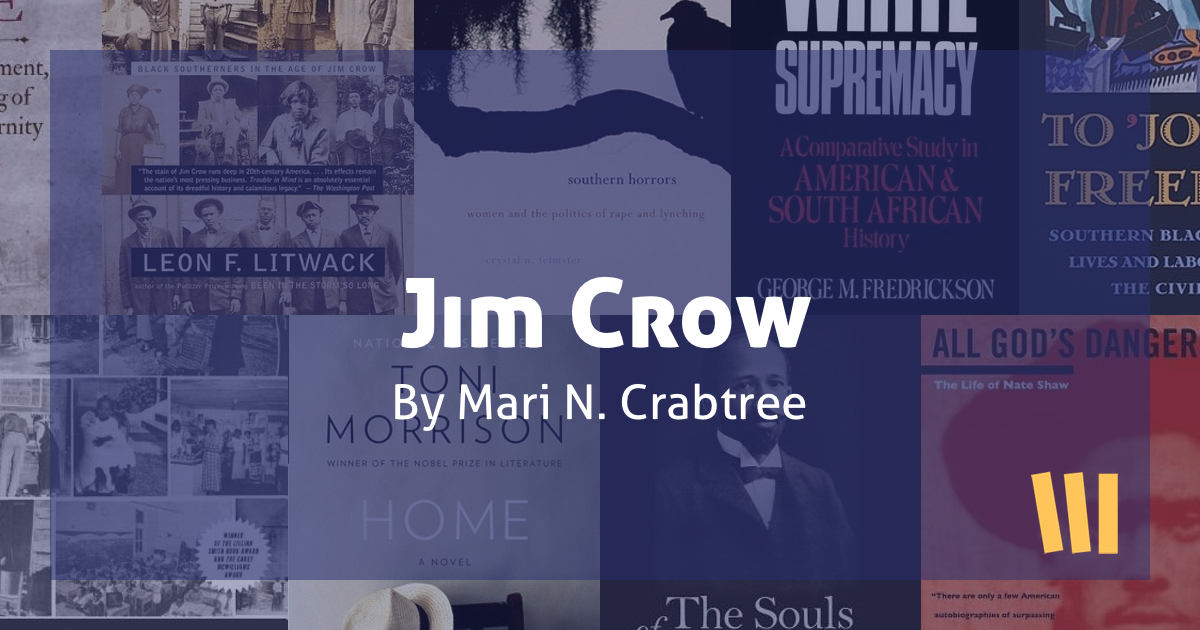
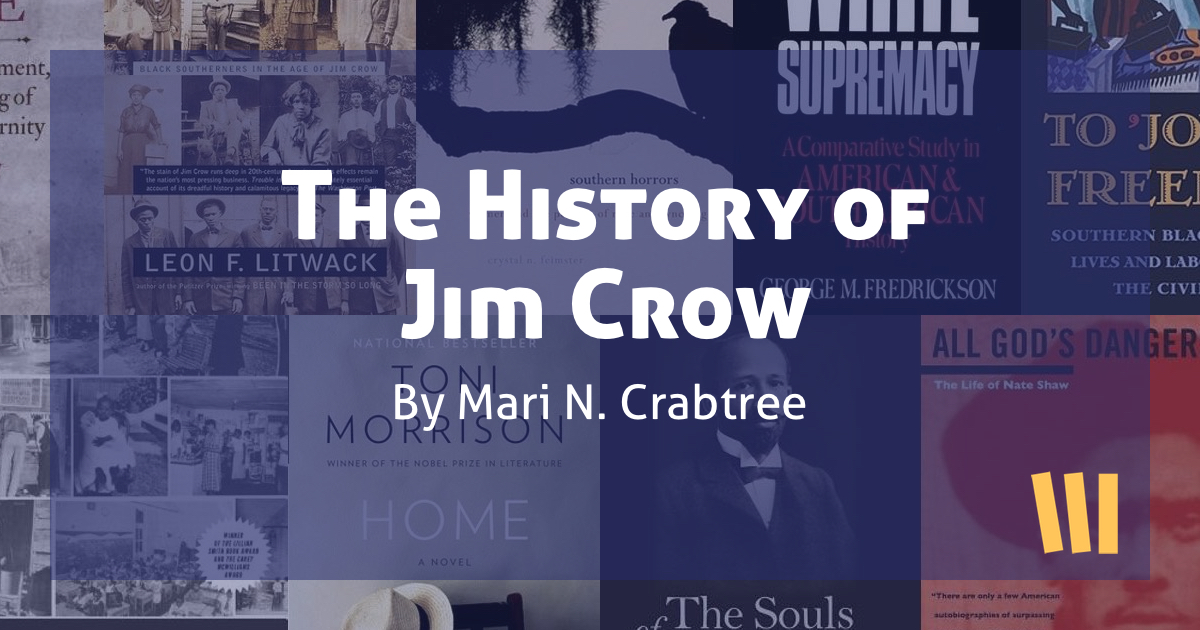
Deploy Crabtree title change

diff --git a/lists/jim-crow.html b/lists/jim-crow.html
@@ -6,7 +6,7 @@
   <meta http-equiv="X-UA-Compatible" content="IE=edge">
   <meta name="viewport" content="width=device-width, initial-scale=1">
 
-  <title>Jim Crow / Backlist</title>
+  <title>The History of Jim Crow / Backlist</title>
   <meta name="description" content="To write about Jim Crow is to write about broken promises, many of which remain broken. Lincoln called for “a new birth of freedom” in the Gettysburg Address...">
 
   <link rel="icon" type="image/x-icon" href="/favicon.png" />
@@ -28,13 +28,13 @@
     <meta name="twitter:card" content="summary_large_image">
     <meta name="twitter:site" content="@bcklst">
     <meta name="twitter:creator" content="@jonesbp">
-    <meta name="twitter:title" content="Jim Crow">
+    <meta name="twitter:title" content="The History of Jim Crow">
     <meta name="twitter:description" content="In some way or another, the authors included in this list grapple with the question: How free is free? They ask what it means for a nation that believes itself to be the model democracy to use lynching, segregation, convict leasing, disfranchisement, debt peonage, race riots, and racist caricatures to control black men and women after abolishing slavery. They also ask how Jim Crow disrupted the interior lives of African Americans who survived it.">
     <meta name="twitter:image" content="http://backlist.cc/images/social-media-cards/crabtree-jim-crow.jpg">
 
     <meta property="og:url" content="http://backlist.cc/lists/jim-crow" />
     <meta property="og:type" content="article" />
-    <meta property="og:title" content="Jim Crow" />
+    <meta property="og:title" content="The History of Jim Crow" />
     <meta property="og:description" content="In some way or another, the authors included in this list grapple with the question: How free is free? They ask what it means for a nation that believes itself to be the model democracy to use lynching, segregation, convict leasing, disfranchisement, debt peonage, race riots, and racist caricatures to control black men and women after abolishing slavery. They also ask how Jim Crow disrupted the interior lives of African Americans who survived it." />
     <meta property="og:image" content="http://backlist.cc/images/social-media-cards/crabtree-jim-crow.jpg" />
     <meta property="og:image:width" content="1200" />
@@ -82,7 +82,7 @@
   <header class="post-header"><div class="header-background" style="background-image: url(/images/list-headers/crabtree-jim-crow.jpg)"><div class="header-inset"><div class="wrapper">
     <div class="title-card">
       <h1 class="post-title">
-        Jim Crow
+        The History of Jim Crow
         <span class="byline">By Mari N. Crabtree</span>
       </h1>
       <div class="post-meta">

diff --git a/books/H/1/index.html b/books/H/1/index.html
@@ -78,7 +78,7 @@
             <h3>Haley, Sarah. <em>No Mercy Here: Gender, Punishment, and the Making of Jim Crow Modernity</em>. Justice, Power, and Politics. Chapel Hill, NC: The University of North Carolina Press, 2016.</h3>
             <ul class="citations">
               <li class="label">Cited in:</li>
-                <li><a href="/lists/jim-crow">Jim Crow</a></li>
+                <li><a href="/lists/jim-crow">The History of Jim Crow</a></li>
             </ul>
           </li>
           <li>
@@ -141,7 +141,7 @@
             <h3>Hunter, Tera W. <em>To ’Joy My Freedom: Southern Black Women’s Lives and Labors After the Civil War</em>. Cambridge, MA: Harvard University Press, 1997.</h3>
             <ul class="citations">
               <li class="label">Cited in:</li>
-                <li><a href="/lists/jim-crow">Jim Crow</a></li>
+                <li><a href="/lists/jim-crow">The History of Jim Crow</a></li>
             </ul>
           </li>
   </ul>

diff --git a/books/H/index.html b/books/H/index.html
@@ -78,7 +78,7 @@
             <h3>Haley, Sarah. <em>No Mercy Here: Gender, Punishment, and the Making of Jim Crow Modernity</em>. Justice, Power, and Politics. Chapel Hill, NC: The University of North Carolina Press, 2016.</h3>
             <ul class="citations">
               <li class="label">Cited in:</li>
-                <li><a href="/lists/jim-crow">Jim Crow</a></li>
+                <li><a href="/lists/jim-crow">The History of Jim Crow</a></li>
             </ul>
           </li>
           <li>
@@ -141,7 +141,7 @@
             <h3>Hunter, Tera W. <em>To ’Joy My Freedom: Southern Black Women’s Lives and Labors After the Civil War</em>. Cambridge, MA: Harvard University Press, 1997.</h3>
             <ul class="citations">
               <li class="label">Cited in:</li>
-                <li><a href="/lists/jim-crow">Jim Crow</a></li>
+                <li><a href="/lists/jim-crow">The History of Jim Crow</a></li>
             </ul>
           </li>
   </ul>

diff --git a/books/F/1/index.html b/books/F/1/index.html
@@ -92,7 +92,7 @@
             <h3>Feimster, Crystal N. <em>Southern Horrors: Women and the Politics of Rape and Lynching</em>. Cambridge, MA: Harvard University Press, 2009.</h3>
             <ul class="citations">
               <li class="label">Cited in:</li>
-                <li><a href="/lists/jim-crow">Jim Crow</a></li>
+                <li><a href="/lists/jim-crow">The History of Jim Crow</a></li>
             </ul>
           </li>
           <li>
@@ -113,7 +113,7 @@
             <h3>Fredrickson, George M. <em>White Supremacy: A Comparative Study in American and South African History</em>. New York: Oxford University Press, 1981.</h3>
             <ul class="citations">
               <li class="label">Cited in:</li>
-                <li><a href="/lists/jim-crow">Jim Crow</a></li>
+                <li><a href="/lists/jim-crow">The History of Jim Crow</a></li>
             </ul>
           </li>
           <li>

diff --git a/books/F/index.html b/books/F/index.html
@@ -92,7 +92,7 @@
             <h3>Feimster, Crystal N. <em>Southern Horrors: Women and the Politics of Rape and Lynching</em>. Cambridge, MA: Harvard University Press, 2009.</h3>
             <ul class="citations">
               <li class="label">Cited in:</li>
-                <li><a href="/lists/jim-crow">Jim Crow</a></li>
+                <li><a href="/lists/jim-crow">The History of Jim Crow</a></li>
             </ul>
           </li>
           <li>
@@ -113,7 +113,7 @@
             <h3>Fredrickson, George M. <em>White Supremacy: A Comparative Study in American and South African History</em>. New York: Oxford University Press, 1981.</h3>
             <ul class="citations">
               <li class="label">Cited in:</li>
-                <li><a href="/lists/jim-crow">Jim Crow</a></li>
+                <li><a href="/lists/jim-crow">The History of Jim Crow</a></li>
             </ul>
           </li>
           <li>

diff --git a/books/all/5/index.html b/books/all/5/index.html
@@ -99,7 +99,7 @@
             <h3>Feimster, Crystal N. <em>Southern Horrors: Women and the Politics of Rape and Lynching</em>. Cambridge, MA: Harvard University Press, 2009.</h3>
             <ul class="citations">
               <li class="label">Cited in:</li>
-                <li><a href="/lists/jim-crow">Jim Crow</a></li>
+                <li><a href="/lists/jim-crow">The History of Jim Crow</a></li>
             </ul>
           </li>
           <li>
@@ -120,7 +120,7 @@
             <h3>Fredrickson, George M. <em>White Supremacy: A Comparative Study in American and South African History</em>. New York: Oxford University Press, 1981.</h3>
             <ul class="citations">
               <li class="label">Cited in:</li>
-                <li><a href="/lists/jim-crow">Jim Crow</a></li>
+                <li><a href="/lists/jim-crow">The History of Jim Crow</a></li>
             </ul>
           </li>
           <li>

diff --git a/books/all/6/index.html b/books/all/6/index.html
@@ -155,7 +155,7 @@
             <h3>Haley, Sarah. <em>No Mercy Here: Gender, Punishment, and the Making of Jim Crow Modernity</em>. Justice, Power, and Politics. Chapel Hill, NC: The University of North Carolina Press, 2016.</h3>
             <ul class="citations">
               <li class="label">Cited in:</li>
-                <li><a href="/lists/jim-crow">Jim Crow</a></li>
+                <li><a href="/lists/jim-crow">The History of Jim Crow</a></li>
             </ul>
           </li>
           <li>

diff --git a/books/C/1/index.html b/books/C/1/index.html
@@ -106,7 +106,7 @@
             <h3>Chafe, William H., Raymond Gavins, and Robert Korstad, eds. <em>Remembering Jim Crow: African Americans Tell About Life in the Segregated South</em>. New York: New Press, 2011.</h3>
             <ul class="citations">
               <li class="label">Cited in:</li>
-                <li><a href="/lists/jim-crow">Jim Crow</a></li>
+                <li><a href="/lists/jim-crow">The History of Jim Crow</a></li>
             </ul>
           </li>
           <li>

diff --git a/books/C/index.html b/books/C/index.html
@@ -106,7 +106,7 @@
             <h3>Chafe, William H., Raymond Gavins, and Robert Korstad, eds. <em>Remembering Jim Crow: African Americans Tell About Life in the Segregated South</em>. New York: New Press, 2011.</h3>
             <ul class="citations">
               <li class="label">Cited in:</li>
-                <li><a href="/lists/jim-crow">Jim Crow</a></li>
+                <li><a href="/lists/jim-crow">The History of Jim Crow</a></li>
             </ul>
           </li>
           <li>

diff --git a/books/all/3/index.html b/books/all/3/index.html
@@ -113,7 +113,7 @@
             <h3>Chafe, William H., Raymond Gavins, and Robert Korstad, eds. <em>Remembering Jim Crow: African Americans Tell About Life in the Segregated South</em>. New York: New Press, 2011.</h3>
             <ul class="citations">
               <li class="label">Cited in:</li>
-                <li><a href="/lists/jim-crow">Jim Crow</a></li>
+                <li><a href="/lists/jim-crow">The History of Jim Crow</a></li>
             </ul>
           </li>
           <li>

diff --git a/books/K/1/index.html b/books/K/1/index.html
@@ -127,7 +127,7 @@
             <h3>Klarman, Michael J. <em>From Jim Crow to Civil Rights: The Supreme Court and the Struggle for Racial Equality</em>. New York: Oxford University Press, 2004.</h3>
             <ul class="citations">
               <li class="label">Cited in:</li>
-                <li><a href="/lists/jim-crow">Jim Crow</a></li>
+                <li><a href="/lists/jim-crow">The History of Jim Crow</a></li>
             </ul>
           </li>
           <li>

diff --git a/books/K/index.html b/books/K/index.html
@@ -127,7 +127,7 @@
             <h3>Klarman, Michael J. <em>From Jim Crow to Civil Rights: The Supreme Court and the Struggle for Racial Equality</em>. New York: Oxford University Press, 2004.</h3>
             <ul class="citations">
               <li class="label">Cited in:</li>
-                <li><a href="/lists/jim-crow">Jim Crow</a></li>
+                <li><a href="/lists/jim-crow">The History of Jim Crow</a></li>
             </ul>
           </li>
           <li>
